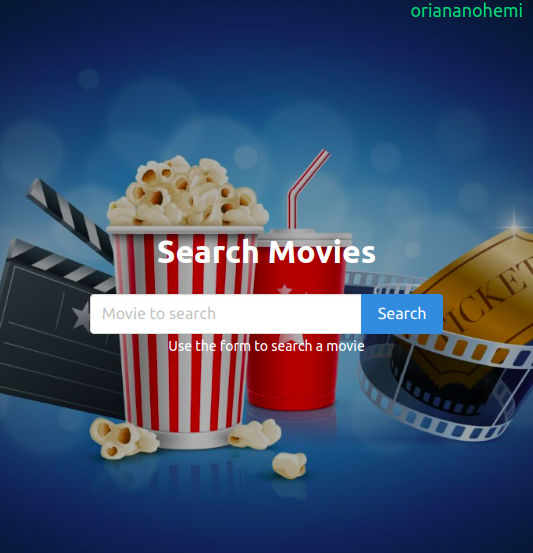
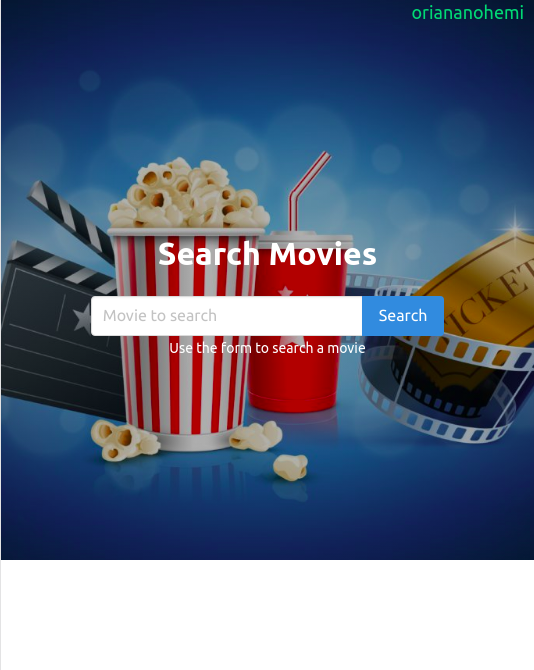
Cambio de estilos del header y el hero

diff --git a/src/app/projects/projects.constant.ts b/src/app/projects/projects.constant.ts
@@ -18,6 +18,12 @@ export const projects = [
     github: 'https://github.com/oriananohemi/petShop',
   },
   {
+    title: 'Buscador de Peliculas',
+    image: 'assets/image/buscadorPeliculas.png',
+    demo: 'https://oriananohemi.github.io/buscador-peliculas/',
+    github: 'https://github.com/oriananohemi/buscador-peliculas',
+  },
+  {
     title: 'PhySport',
     image: 'assets/image/phySport.png',
     demo: 'https://oriananohemi.github.io/BOG001-social-network/',
@@ -47,4 +53,28 @@ export const projects = [
     demo: '',
     github: '',
   },
-]
+  {
+    title: 'PusheeCat',
+    image: 'assets/image/pusheeCat.png',
+    demo: 'https://oriananohemi.github.io/pusheenCat/',
+    github: 'https://github.com/oriananohemi/pusheenCat',
+  },
+  {
+    title: 'Casa de Instrumentos',
+    image: 'assets/image/casaDeInstrumento.png',
+    demo: 'https://oriananohemi.github.io/Casa-de-Instrumentos/',
+    github: 'https://github.com/oriananohemi/Casa-de-Instrumentos',
+  },
+  {
+    title: 'Instagram',
+    image: 'assets/image/instagramPerfil.png',
+    demo: 'https://oriananohemi.github.io/instagram/',
+    github: 'https://github.com/oriananohemi/instagram',
+  },
+  {
+    title: 'Instagram Home',
+    image: 'assets/image/instagramHome.png',
+    demo: 'https://oriananohemi.github.io/instagramHome/',
+    github: 'https://github.com/oriananohemi/instagramHome',
+  },
+];

diff --git a/src/app/shared/project/project.component.html b/src/app/shared/project/project.component.html
@@ -1,5 +1,7 @@
 <article *ngIf="project" class="project">
-  <img class="responsive-image" [src]="project.image" alt="">
+  <div class="project-image">
+    <img class="responsive-image" [src]="project.image" alt="">
+  </div>
   <h2 class="project__title">{{ project.title }}</h2>
   <div class="flex-container container">
     <a class="project__link" [href]="project.github" target="_blank">Repo</a>

diff --git a/src/app/hero/hero.component.scss b/src/app/hero/hero.component.scss
@@ -7,7 +7,11 @@
   justify-content: center;
   align-items: center;
   &__title {
-    font-size: 50px;
+    font-size: 70px;
     margin: 10px 0;
+  }
+  &__paragraph {
+    font-size: 30px;
+    font-weight: 300;
   }
 }

diff --git a/src/app/shared/header/header.component.scss b/src/app/shared/header/header.component.scss
@@ -1,6 +1,6 @@
 .header {
   background-color: var(--white);
-  box-shadow: 3px 12px 18px -2px rgba(0, 0, 0, 0.59);
+  border-bottom: 2px solid var(--primary);
   position: fixed;
   height: 80px;
   padding: 10px 20px;

diff --git a/src/app/shared/project/project.component.scss b/src/app/shared/project/project.component.scss
@@ -20,4 +20,7 @@
     border: 1px solid var(--primary);
     color: var(--primary);
   }
+  &-image {
+    height: 450px;
+  }
 }

diff --git a/src/styles.scss b/src/styles.scss
@@ -29,6 +29,7 @@ li {
 }
 
 .responsive-image {
+  max-height: 100%;
   max-width: 100%;
 }
 
